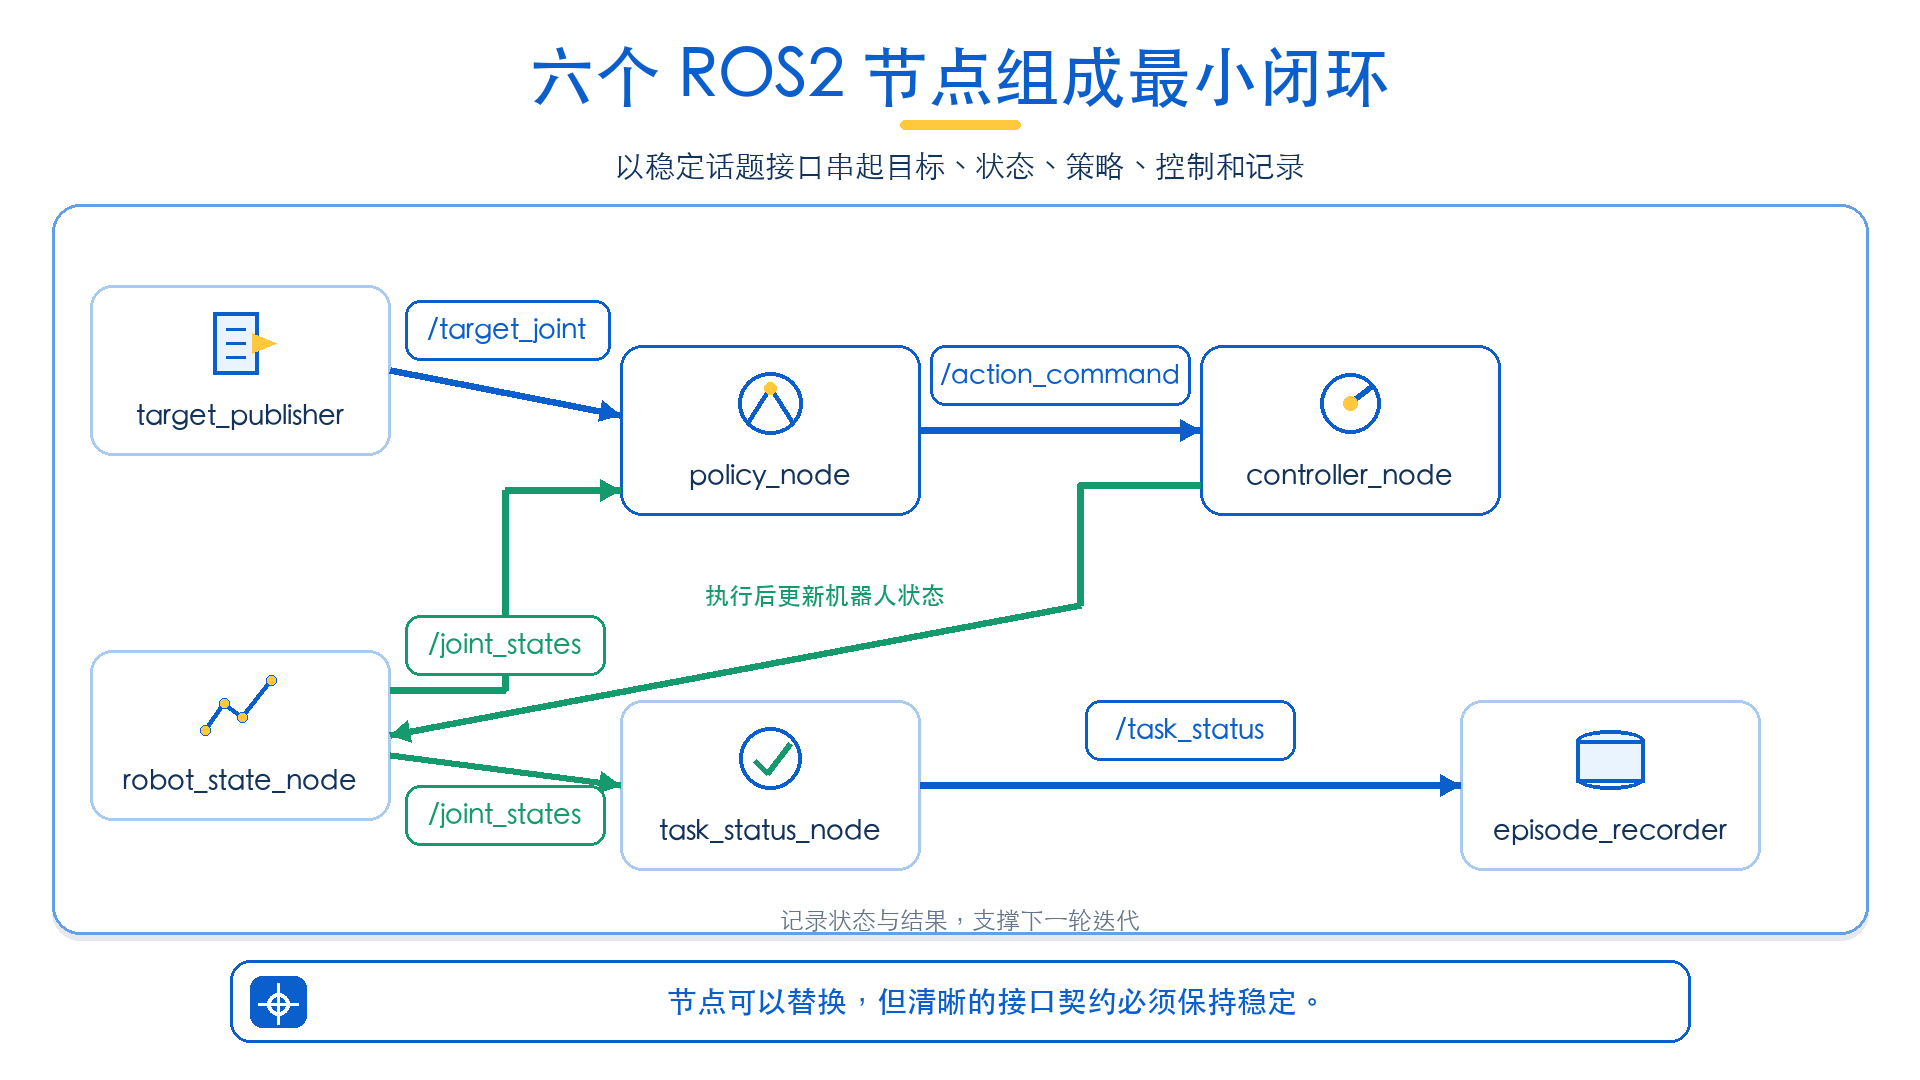
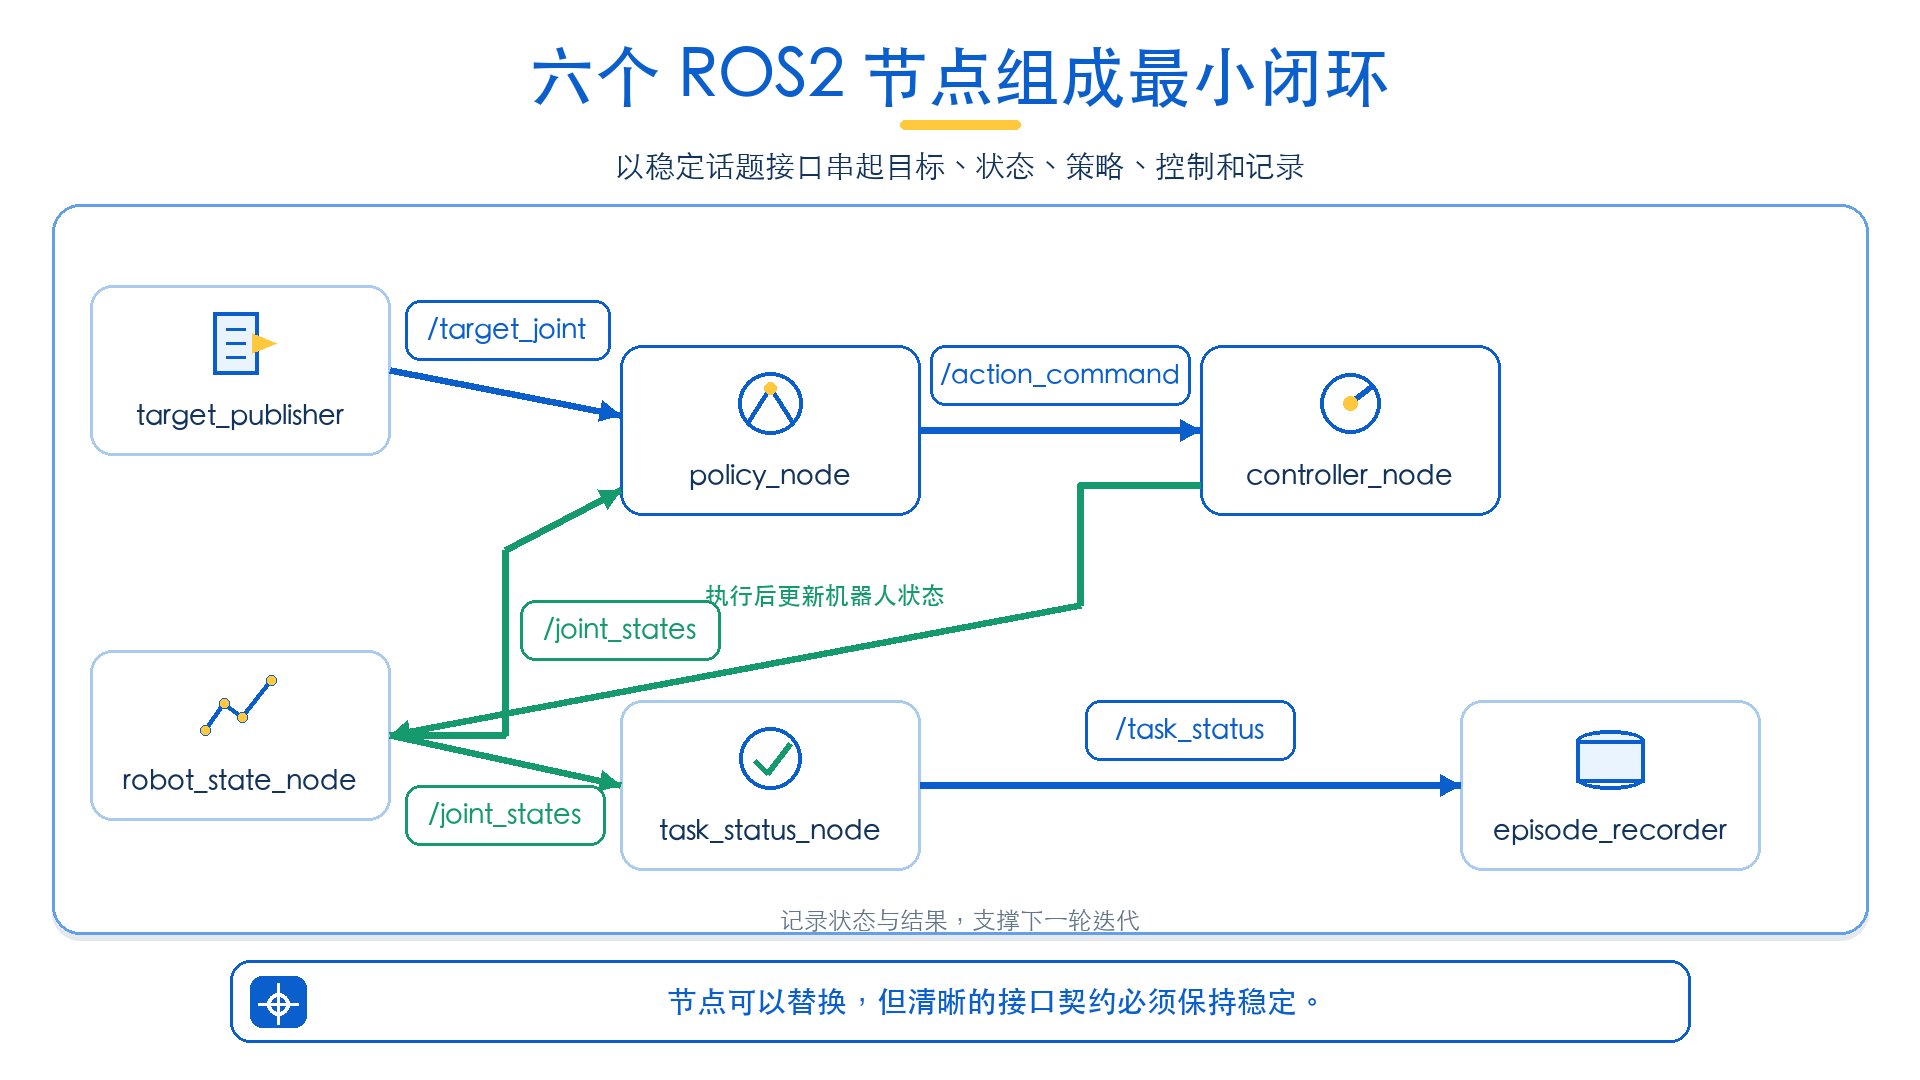
绑定闭环路由节点锚点

Changed region(s): [[0.1875, 0.55, 0.375, 0.7333], [0.25, 0.4278, 0.3125, 0.5194]]

diff --git a/tools/lecture_infographics/layouts_b.py b/tools/lecture_infographics/layouts_b.py
@@ -32,13 +32,45 @@ class LoopRoute:
     topic_box: tuple[int, int, int, int] | None = None
 
 
+NODE_ANCHORS = {
+    "1-3": {
+        "data_record": (630, 820),
+        "environment_perception": (600, 420),
+    },
+    "1-7": {
+        "redeploy": (810, 742),
+        "real_execution": (245, 475),
+        "evaluation": (1455, 742),
+        "filter_training": (955, 350),
+    },
+    "1-9": {
+        "trajectory_record": (80, 787),
+        "read_current_position": (557, 415),
+    },
+    "2-3": {
+        "actuator_body.left": (805, 847),
+        "sensor_feedback.right": (720, 747),
+        "sensor_feedback.top": (575, 690),
+        "drive_state_estimation.bottom": (575, 585),
+        "drive_state_estimation.left": (430, 527),
+        "planning_policy.bottom": (950, 385),
+    },
+    "2-5": {
+        "controller_node": (1200, 485),
+        "robot_state_node": (390, 735),
+        "policy_node": (620, 490),
+        "task_status_node": (620, 785),
+    },
+}
+
+
 LOOP_ROUTES = {
     "1-3": (
         LoopRoute(
             "feedback_to_perception",
             "data_record",
             "environment_perception",
-            ((630, 820), (250, 820), (250, 485), (600, 485), (600, 420)),
+            ((250, 820), (250, 485), (600, 485)),
             "success",
         ),
     ),
@@ -47,14 +79,14 @@ LOOP_ROUTES = {
             "deploy_to_execution",
             "redeploy",
             "real_execution",
-            ((810, 742), (245, 742), (245, 475)),
+            ((245, 742),),
             "success",
         ),
         LoopRoute(
             "failure_to_filter_training",
             "evaluation",
             "filter_training",
-            ((1455, 742), (1735, 742), (1735, 275), (955, 275), (955, 350)),
+            ((1735, 742), (1735, 275), (955, 275)),
             "danger",
             "失败样本",
             (1470, 500, 1775, 570),
@@ -65,30 +97,30 @@ LOOP_ROUTES = {
             "retry_with_latest_position",
             "trajectory_record",
             "read_current_position",
-            ((80, 787), (55, 787), (55, 465), (557, 465), (557, 415)),
+            ((55, 787), (55, 465), (557, 465)),
             "success",
         ),
     ),
     "2-3": (
         LoopRoute(
             "body_to_sensor",
-            "actuator_body",
-            "sensor_feedback",
-            ((805, 847), (720, 747)),
+            "actuator_body.left",
+            "sensor_feedback.right",
+            (),
             "success",
         ),
         LoopRoute(
             "sensor_to_state_estimation",
-            "sensor_feedback",
-            "drive_state_estimation",
-            ((575, 690), (575, 585)),
+            "sensor_feedback.top",
+            "drive_state_estimation.bottom",
+            (),
             "success",
         ),
         LoopRoute(
             "state_to_policy",
-            "drive_state_estimation",
-            "planning_policy",
-            ((430, 527), (380, 527), (380, 420), (950, 420), (950, 385)),
+            "drive_state_estimation.left",
+            "planning_policy.bottom",
+            ((380, 527), (380, 420), (950, 420)),
             "success",
         ),
     ),
@@ -97,23 +129,23 @@ LOOP_ROUTES = {
             "controller_to_robot_state",
             "controller_node",
             "robot_state_node",
-            ((1200, 485), (1080, 485), (1080, 605), (390, 735)),
+            ((1080, 485), (1080, 605)),
             "success",
         ),
         LoopRoute(
             "joint_states_to_policy",
             "robot_state_node",
             "policy_node",
-            ((390, 690), (505, 690), (505, 490), (620, 490)),
+            ((505, 735), (505, 550)),
             "success",
             "/joint_states",
-            (405, 615, 605, 675),
+            (520, 600, 720, 660),
         ),
         LoopRoute(
             "joint_states_to_status",
             "robot_state_node",
             "task_status_node",
-            ((390, 755), (620, 785)),
+            (),
             "success",
             "/joint_states",
             (405, 785, 605, 845),
@@ -253,7 +285,9 @@ def _draw_loop_route(draw: ImageDraw.ImageDraw, figure_key: str, route_name: str
     route = next(
         route for route in LOOP_ROUTES[figure_key] if route.name == route_name
     )
-    _path_arrow(draw, route.points, semantic=route.semantic, width=7)
+    anchors = NODE_ANCHORS[figure_key]
+    full_points = (anchors[route.source], *route.points, anchors[route.target])
+    _path_arrow(draw, full_points, semantic=route.semantic, width=7)
     if route.topic is not None and route.topic_box is not None:
         color = GREEN if route.semantic == "success" else RED
         _topic(draw, route.topic_box, route.topic, color=color)

diff --git a/tools/lecture_infographics/test_render.py b/tools/lecture_infographics/test_render.py
@@ -182,7 +182,6 @@ class LayoutTests(unittest.TestCase):
         for key, routes in LOOP_ROUTES.items():
             self.assertGreaterEqual(len(routes), 1, key)
             for route in routes:
-                self.assertGreaterEqual(len(route.points), 2, (key, route.name))
                 self.assertIn(route.semantic, {"success", "danger"}, (key, route.name))
 
     def test_failure_samples_return_to_filtering_and_training(self):
@@ -229,6 +228,68 @@ class LayoutTests(unittest.TestCase):
                     rendered_names,
                     {route.name for route in routes},
                 )
+
+    def test_loop_route_endpoints_resolve_to_node_anchors(self):
+        from tools.lecture_infographics.layouts_b import LOOP_ROUTES, NODE_ANCHORS
+
+        self.assertEqual(set(NODE_ANCHORS), set(LOOP_ROUTES))
+        for key, routes in LOOP_ROUTES.items():
+            for route in routes:
+                self.assertIn(route.source, NODE_ANCHORS[key], (key, route.name))
+                self.assertIn(route.target, NODE_ANCHORS[key], (key, route.name))
+                self.assertNotIn(NODE_ANCHORS[key][route.source], route.points)
+                self.assertNotIn(NODE_ANCHORS[key][route.target], route.points)
+
+    def test_draw_loop_route_uses_resolved_source_and_target_anchors(self):
+        from unittest.mock import patch
+
+        from tools.lecture_infographics.layouts_b import (
+            LOOP_ROUTES,
+            NODE_ANCHORS,
+            _draw_loop_route,
+        )
+
+        image = Image.new("RGB", (1920, 1080), "white")
+        draw = ImageDraw.Draw(image)
+        for key, routes in LOOP_ROUTES.items():
+            for route in routes:
+                with self.subTest(key=key, route=route.name):
+                    with patch(
+                        "tools.lecture_infographics.layouts_b._path_arrow"
+                    ) as path_arrow:
+                        _draw_loop_route(draw, key, route.name)
+                    path_arrow.assert_called_once_with(
+                        draw,
+                        (
+                            NODE_ANCHORS[key][route.source],
+                            *route.points,
+                            NODE_ANCHORS[key][route.target],
+                        ),
+                        semantic=route.semantic,
+                        width=7,
+                    )
+
+    def test_critical_loop_route_metadata_is_exact(self):
+        from tools.lecture_infographics.layouts_b import LOOP_ROUTES
+
+        routes_1_7 = {route.name: route for route in LOOP_ROUTES["1-7"]}
+        failure = routes_1_7["failure_to_filter_training"]
+        self.assertEqual(
+            (failure.source, failure.target, failure.semantic, failure.topic),
+            ("evaluation", "filter_training", "danger", "失败样本"),
+        )
+
+        routes_2_5 = {route.name: route for route in LOOP_ROUTES["2-5"]}
+        policy = routes_2_5["joint_states_to_policy"]
+        status = routes_2_5["joint_states_to_status"]
+        self.assertEqual(
+            (policy.source, policy.target, policy.semantic, policy.topic),
+            ("robot_state_node", "policy_node", "success", "/joint_states"),
+        )
+        self.assertEqual(
+            (status.source, status.target, status.semantic, status.topic),
+            ("robot_state_node", "task_status_node", "success", "/joint_states"),
+        )
 
 
 class RenderTests(unittest.TestCase):
